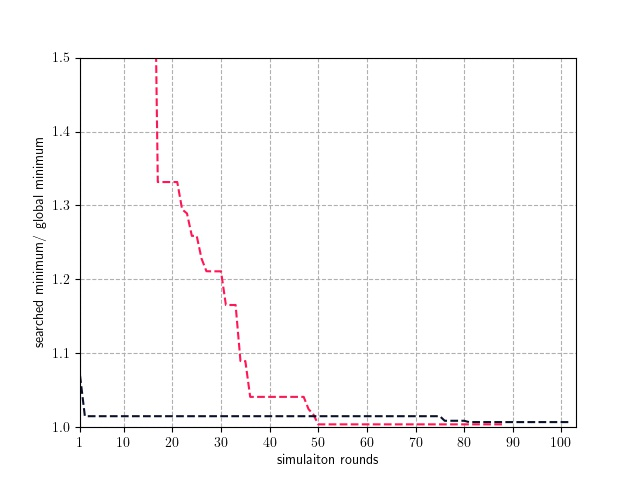
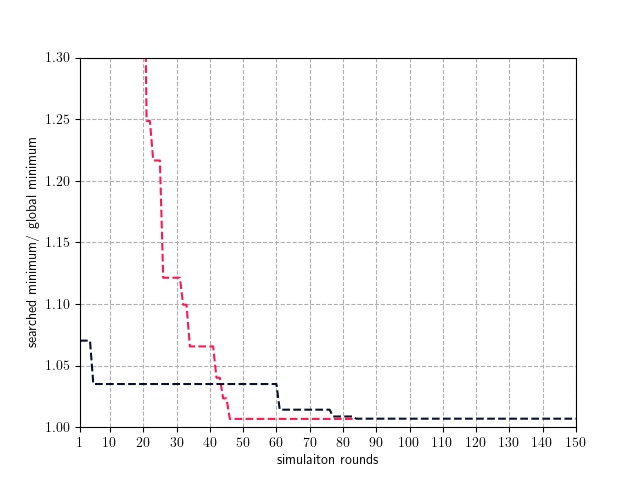
added algorithm experiment

diff --git a/cnp_algo.py b/cnp_algo.py
@@ -121,6 +121,9 @@ def apply_cnp_algo(algo_setting, stop_setting, signal_setting=None):
                 opt_stats.add_eval_info(assign_plan, delay)
                 surrounding_sample_delays.append(delay)
 
+            # calculate promising index of surround region
+            surr_mean = sum(surrounding_sample_delays) / len(surrounding_sample_delays)
+
             if curr_promising_region.depth == max_depth - 1:  # at leaf node
                 # print("--------- at max depth -----------")
                 promising_sample_delays = []
@@ -133,7 +136,11 @@ def apply_cnp_algo(algo_setting, stop_setting, signal_setting=None):
                     promising_sample_delays.append(delay)
 
                 # compare indexs and see if trackback or not
+                promising_mean = sum(promising_sample_delays) / len(
+                    promising_sample_delays
+                )
                 if min(surrounding_sample_delays) < min(promising_sample_delays):
+                # if surr_mean < promising_mean:
                     opt_stats.curr_promising_region_id = (
                         curr_promising_region.parent.region_id
                     )
@@ -149,9 +156,10 @@ def apply_cnp_algo(algo_setting, stop_setting, signal_setting=None):
                     run_df,
                 )
                 best_child_region_id, best_delay_list = best_child_region_tuple
-                # print(child_region_sample_delays_dict)
-                # print(best_child_region_id, best_delay_list)
+                best_child_mean = sum(best_delay_list) / len(best_delay_list)
+
                 if min(surrounding_sample_delays) < min(best_delay_list):
+                # if surr_mean < best_child_mean:
                     opt_stats.curr_promising_region_id = (
                         curr_promising_region.parent.region_id
                     )

diff --git a/algo_experiment.py b/algo_experiment.py
@@ -44,8 +44,10 @@ def main(
     gloabl_min = get_global_min_delay(stop_setting, signal_setting)
 
     if algorithm == "Tan":
-        for radius in [0.05 * 1.5]:  # 0.05
-            for region_num in [16]:  # 24
+        for radius in [0.05 * 1.5]:  # 0.05 * 1.5
+            # for radius in [0.05]:
+            for region_num in [16]:  # 16
+                # for region_num in [24]:
                 algo_setting = (radius, region_num)
                 history_delays = apply_tan_algo(
                     algo_setting, stop_setting, signal_setting
@@ -53,9 +55,9 @@ def main(
                 norm_history_delays = [x / gloabl_min for x in history_delays]
                 algo_ex.info["norm_history_delays"] = norm_history_delays
     else:
-        for sim_budget in [100]:
+        for sim_budget in [200]:
             for max_depth in [5]:
-                for sample_num_of_each_region in [5]:
+                for sample_num_of_each_region in [8]:
                     algo_ex.info["sim_budget"] = sim_budget
                     algo_ex.info["max_depth"] = max_depth
                     algo_ex.info[

diff --git a/plot_iso_algo.py b/plot_iso_algo.py
@@ -12,14 +12,7 @@ line_num = 10
 total_flow = 135
 arrival_type = "Gaussian"
 mean_service = 25
-cycle_length = 120
-green_ratio = 0.5
-buffer_size = 3
 
-### cnp algorithm setting
-sim_budget = 100
-max_depth = 5  # must >= 3
-sample_num_of_each_region = 3
 ### figure setting
 line_styles_dict = {"FIFO": "solid", "LO-Out": "dashed", "FO-Bus": "dotted"}
 line_colors = ["#ff1654", "#0a1128"]
@@ -38,7 +31,7 @@ for queue_rule in ["FIFO", "LO-Out", "FO-Bus"]:
         y_label="searched minimum/ global minimum",
     )
     ### signal setting
-    # signal_setting = None
+    signal_setting = None
     signal_setting = (120, 0.5, 3)
 
     for set_no in [1]:
@@ -68,8 +61,9 @@ for queue_rule in ["FIFO", "LO-Out", "FO-Bus"]:
 
         ### plot
         ax.set_xticks(x_ticks)
-        ax.set_ylim([1, 1.5])
-        ax.set_xlim([1, x_range])
+        ax.set_ylim([1, 1.3])
+        # ax.set_xlim([1, x_range])
+        ax.set_xlim([1, 150])
         ax.plot(
             x_tan,
             tan_norm_history_delays,

diff --git a/isolated_scenario.py b/isolated_scenario.py
@@ -11,14 +11,14 @@ def sim_one_isolated_scenario(*args):
     ######## hyper-parameters ########
     max_tolerance_delay = paras.max_tolerance_delay  # seconds
     each_eval_interval = 3600 * 10
-    total_eval_num = 600  # 600
+    total_eval_num = 300  # 600
     epoch_num = each_eval_interval * total_eval_num  # the total number of epochs
 
-    minimum_eval_num = 150  # 150
+    minimum_eval_num = 100  # 150
     minimum_epoch_num = minimum_eval_num * each_eval_interval
     # if the last *std_num* of mean_seq is greater than threshold, return
     std_num = 20  # 20
-    threshold = 0.05
+    threshold = 0.1
 
     ######## simulation ########
     # duration = int(epoch_num / paras.sim_delta)

diff --git a/signal_scenario.py b/signal_scenario.py
@@ -23,15 +23,15 @@ def sim_one_NS_scenario(
     ######## hyper-parameters ########
     max_tolerance_delay = paras.max_tolerance_delay  # seconds
     each_eval_interval = 3600 * 10
-    total_eval_num = 600  # 600
+    total_eval_num = 300  # 600
     epoch_num = total_eval_num * each_eval_interval  # the total number of epochs
 
-    minimum_eval_num = 150  # 150
+    minimum_eval_num = 100  # 150
     minimum_epoch_num = minimum_eval_num * each_eval_interval
     std_num = (
         20  # 20 # if the last *std_num* of mean_seq is greater than threshold, return
     )
-    threshold = 0.05
+    threshold = 0.1
 
     ######## simulation ########
     duration = int(epoch_num * paras.sim_delta)

diff --git a/line_profile.py b/line_profile.py
@@ -88,14 +88,14 @@ def generate_and_add_to_db():
     collection = db["line_profile"]
 
     berth_num = 2
-    line_num = 10
-    total_flow = 135
+    line_num = 12
+    total_flow = 138
     arrival_type = "Gaussian"
     mean_service = 25
-    arr_scale = 5  # larger scale, smaller variance of arrival flow mean
-    service_scale = 8  # larger scale, smaller variance of service mean
+    arr_scale = 6  # larger scale, smaller variance of arrival flow mean
+    service_scale = 12  # larger scale, smaller variance of service mean
 
-    for set_no in range(5):
+    for set_no in range(2):
         line_flow, line_service = generate_line_info(
             line_num,
             total_flow,

diff --git a/signal_main.py b/signal_main.py
@@ -12,14 +12,14 @@ def config():
     # queue_rule = "LO-Out"
     queue_rule = "FO-Bus"
     berth_num = 2
-    line_num = 10
-    total_flow = 135  # buses/hr
+    line_num = 12
+    total_flow = 138  # buses/hr
     arrival_type = "Gaussian"
     mean_service = 25  # seconds
     cycle_length = 120
     green_ratio = 0.5
     buffer_size = 3
-    set_no = 1  # which set of input profile in the database
+    set_no = 0  # which set of input profile in the database
 
 
 def run(assign_plan_str):

diff --git a/isolated_main.py b/isolated_main.py
@@ -12,11 +12,11 @@ def config():
     # queue_rule = "LO-Out"
     queue_rule = "FO-Bus"
     berth_num = 2
-    line_num = 10
-    total_flow = 135  # buses/hr
+    line_num = 12
+    total_flow = 138  # buses/hr
     arrival_type = "Gaussian"
     mean_service = 25  # seconds
-    set_no = 1
+    set_no = 0
 
 
 def run(assign_plan_str):

diff --git a/tan_algo.py b/tan_algo.py
@@ -122,7 +122,7 @@ def apply_tan_algo(algo_setting, stop_setting, signal_setting=None):
         else:
             break
 
-    print(opt_stats.history_min_delays)
+    # print(opt_stats.history_min_delays)
     print("--------- end iteration -----------")
 
     return opt_stats.history_min_delays

diff --git a/arena.py b/arena.py
@@ -263,7 +263,7 @@ def get_case_df_from_db(stop_setting, signal_setting, algorithm):
 
     if algorithm == "CNP":
         appended_query_str = "and max_depth=={} and sample_num_of_each_region=={}".format(
-            5, 5
+            4, 6
         )
         query = query + appended_query_str
 
